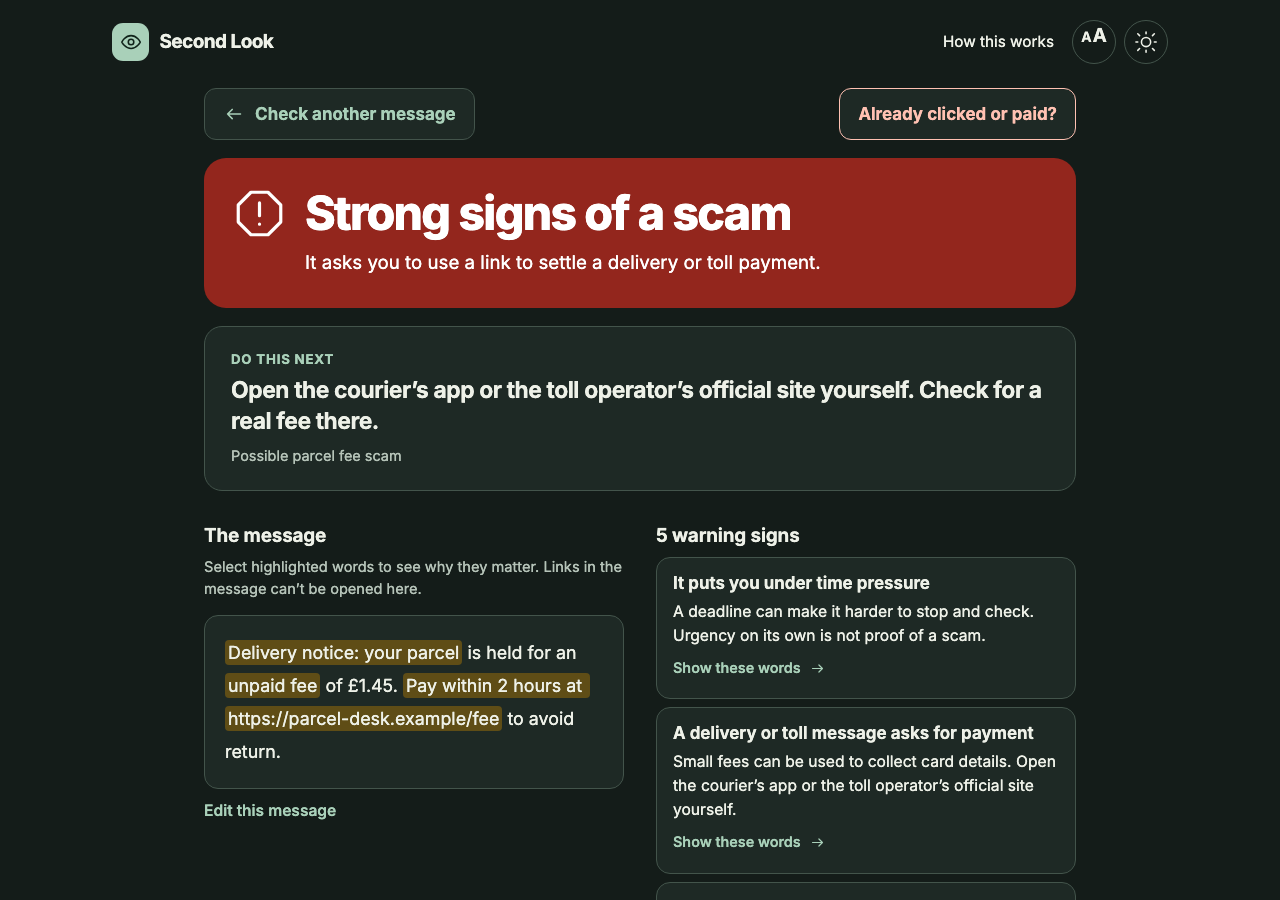
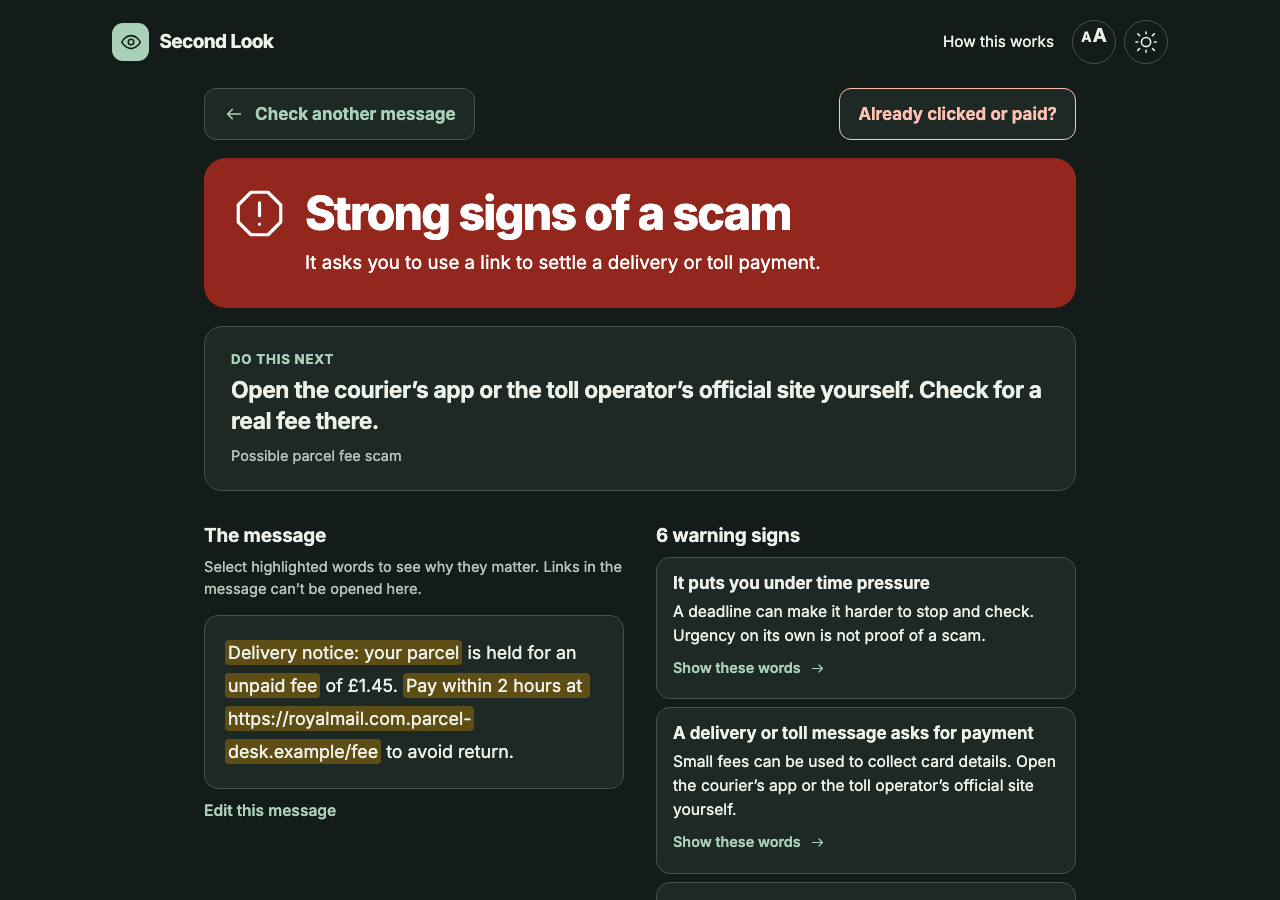
Result headline names the strongest finding instead of a generic line; parcel example uses a Royal Mail lookalike link so the link check visibly flags it

Changed region(s): [[0.1562, 0.7778, 0.4375, 0.8711], [0.5312, 0.5911, 0.625, 0.6222]]

diff --git a/src/engine/analyze.ts b/src/engine/analyze.ts
@@ -565,6 +565,8 @@ export function analyze(input: string): Analysis {
                           nextStep:
                             'Contact the person or organisation using a number or app you already trust. Do not use contact details from this message.',
                         };
+  // The heaviest finding names the reason when no scenario-specific summary fits.
+  const strongest = [...findings].sort((a, b) => b.weight - a.weight)[0];
   const summary = has('credentials')
     ? 'It asks you to give up a password or code that could unlock an account.'
     : has('remote')
@@ -599,7 +601,9 @@ export function analyze(input: string): Analysis {
                                   ? 'We did not find a known warning pattern. That does not verify the sender.'
                                   : level === 'too_short'
                                     ? 'Add more of the message so there is enough to check.'
-                                    : 'There are reasons to pause and check this message through another route.';
+                                    : strongest
+                                      ? `Main warning: ${strongest.title.charAt(0).toLowerCase()}${strongest.title.slice(1)}. Check it through another route.`
+                                      : 'There are reasons to pause and check this message through another route.';
   return { level, summary, scenario, findings: score < 2 ? [] : findings, links, notes };
 }
 

diff --git a/tests/e2e/app.spec.ts b/tests/e2e/app.spec.ts
@@ -2,7 +2,7 @@ import { expect, test, type Page } from '@playwright/test';
 import { check, messageImage, ORIGIN, qrImage, watchConsole, watchExternal } from './helpers';
 
 const SCAM =
-  'Delivery notice: your parcel is held for an unpaid fee of £1.45. Pay within 2 hours at https://parcel-desk.example/fee to avoid return.';
+  'Delivery notice: your parcel is held for an unpaid fee of £1.45. Pay within 2 hours at https://royalmail.com.parcel-desk.example/fee to avoid return.';
 
 test.describe('checking a message', () => {
   test('paste flow: outcome, highlights linked both ways, next step', async ({

diff --git a/scripts/screenshots.ts b/scripts/screenshots.ts
@@ -11,7 +11,7 @@ const out = join(root, 'docs/screenshots');
 const PORT = 4319;
 const base = `http://127.0.0.1:${PORT}/`;
 const SCAM =
-  'Delivery notice: your parcel is held for an unpaid fee of £1.45. Pay within 2 hours at https://parcel-desk.example/fee to avoid return.';
+  'Delivery notice: your parcel is held for an unpaid fee of £1.45. Pay within 2 hours at https://royalmail.com.parcel-desk.example/fee to avoid return.';
 
 async function waitForServer() {
   for (let i = 0; i < 60; i++) {

diff --git a/src/data/examples.ts b/src/data/examples.ts
@@ -1,7 +1,7 @@
 export const examples = [
   {
     name: 'Parcel fee',
-    text: 'Delivery notice: your parcel is held for an unpaid fee of £1.45. Pay within 2 hours at https://parcel-desk.example/fee to avoid return.',
+    text: 'Delivery notice: your parcel is held for an unpaid fee of £1.45. Pay within 2 hours at https://royalmail.com.parcel-desk.example/fee to avoid return.',
   },
   {
     name: 'Family request',

diff --git a/README.md b/README.md
@@ -166,7 +166,7 @@ we meant.
 
 A text says a parcel is held for an unpaid fee of £1.45, to be paid within 2 hours at a link.
 Second Look highlights the fee, the deadline and the link, and shows that the link's main address is
-`parcel-desk.example`. Its next step is to open the courier's app or the toll operator's official
+`parcel-desk.example`, even though the link begins with `royalmail.com`. Its next step is to open the courier's app or the toll operator's official
 site yourself and check for a real fee there. The person can check the delivery without giving
 the message their card details.
 

diff --git a/docs/EVALUATION.md b/docs/EVALUATION.md
@@ -1,6 +1,6 @@
 # Evaluation
 
[2 lines of base64/hex data omitted]
 
 ## How the numbers were produced
 
